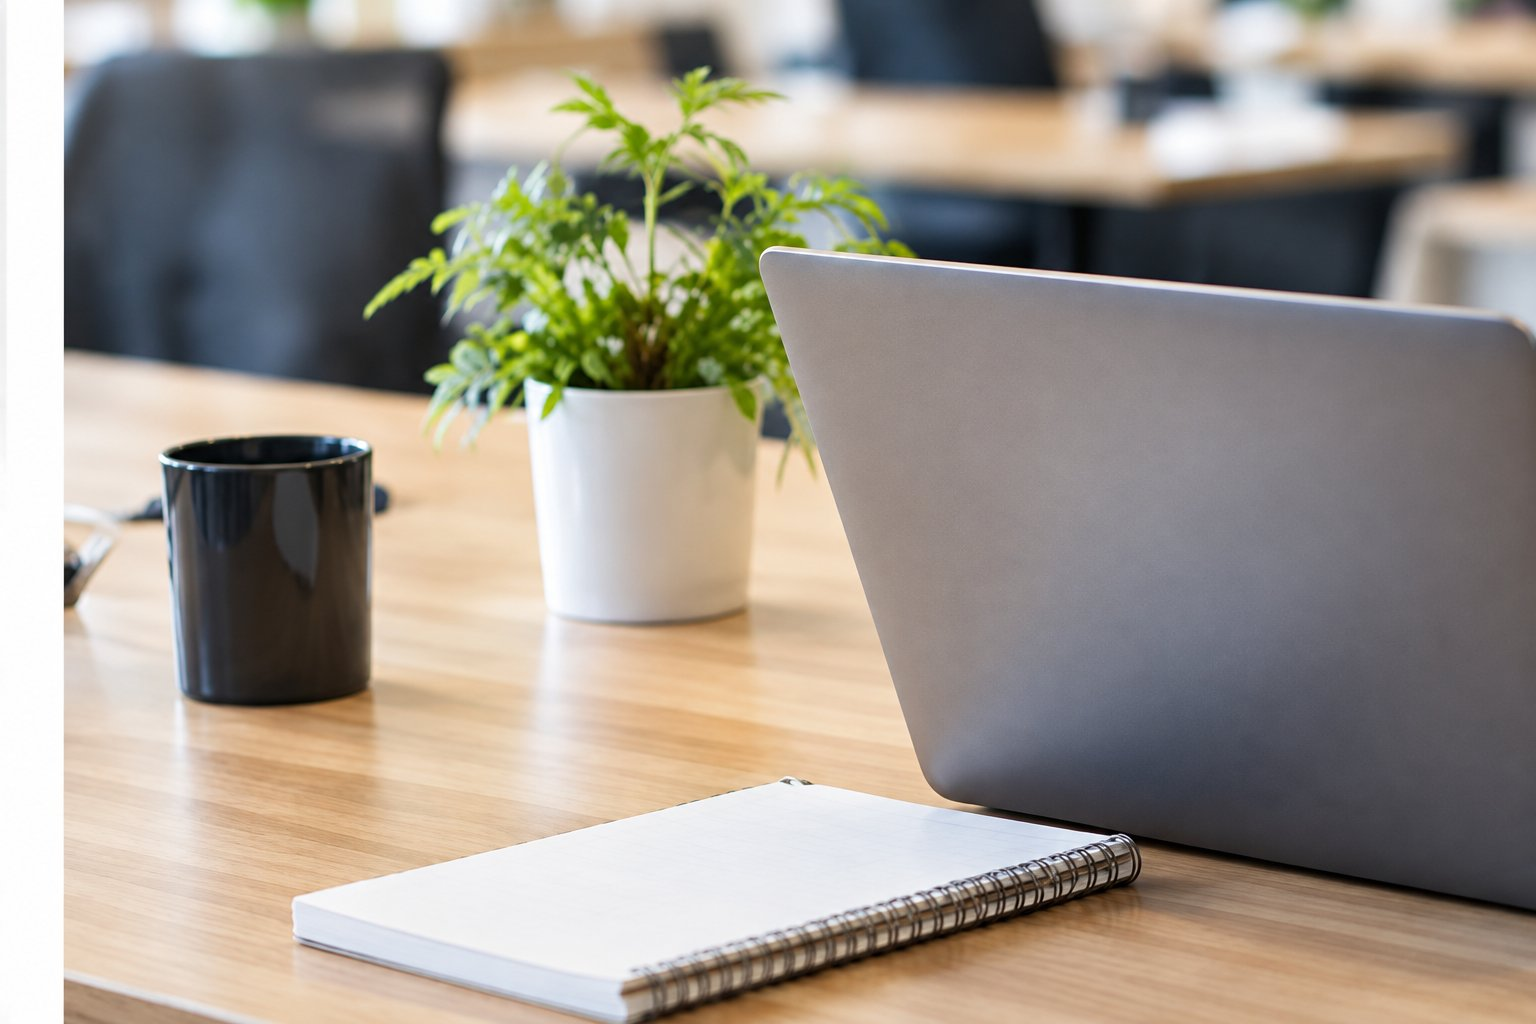
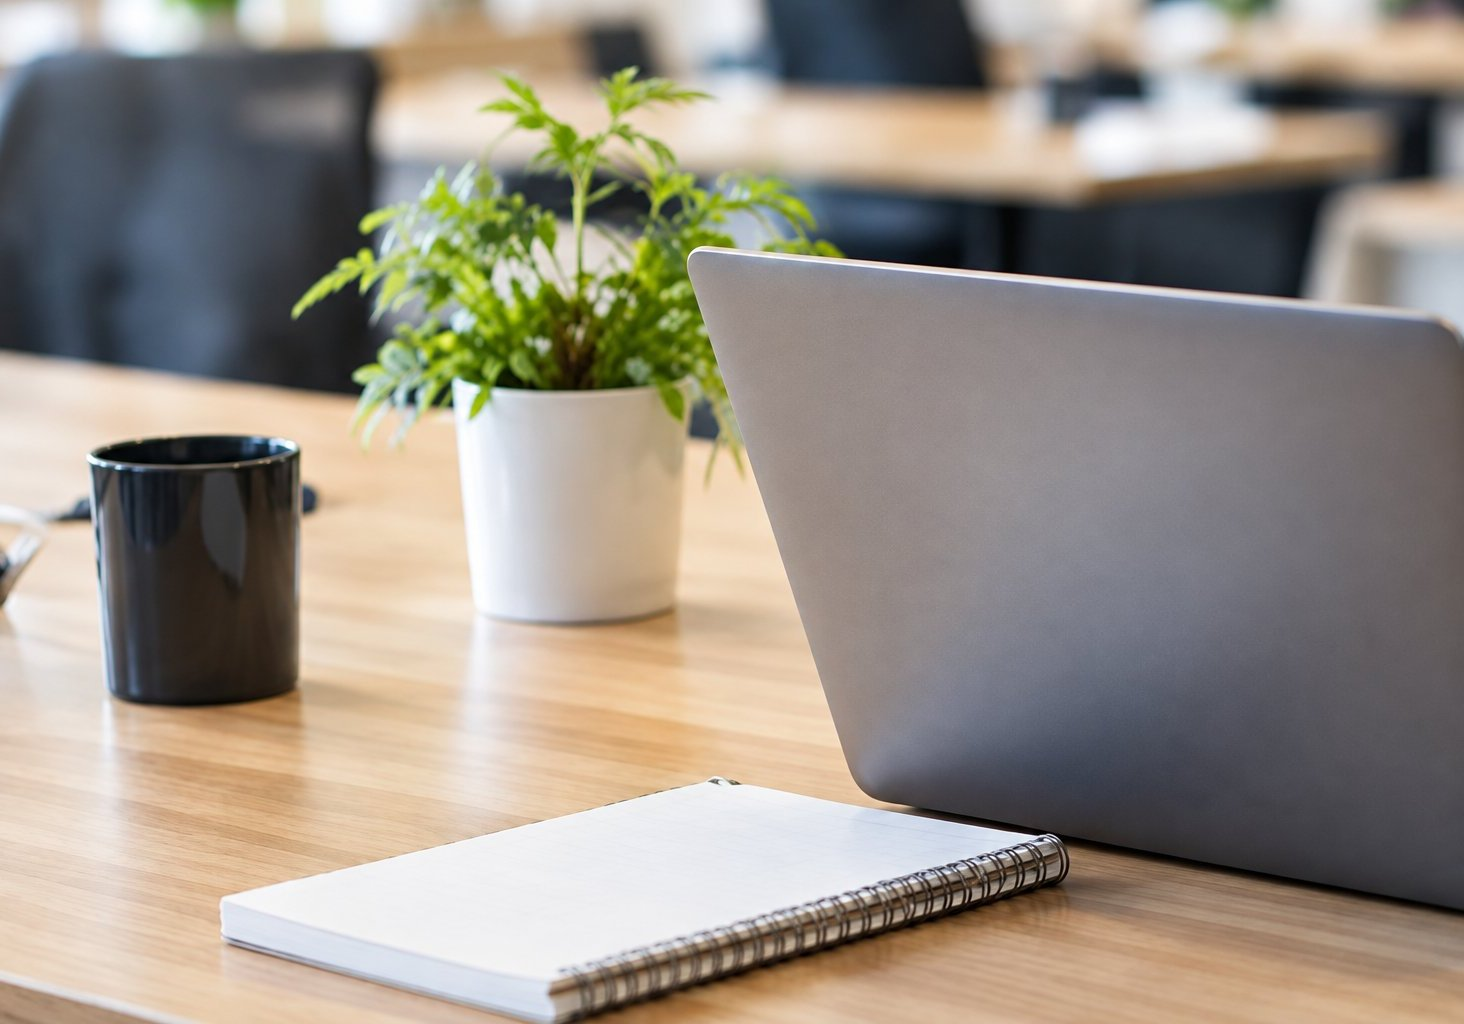
education/draft4: 開催日を「ご希望の日をお問い合わせフォームからご相談ください」に、2 つの表の「ご案内」行を削除、about.jpg の左端の白い帯を切り落とし(ユーザー判断 2026-09-17)

diff --git a/education/draft4/index.html b/education/draft4/index.html
@@ -677,13 +677,12 @@ img.emoji {
     </div>
     <dl class="sorajyuku-table">
       <div><dt>開催時間</dt><dd><strong>18:00〜</strong></dd></div>
-      <div><dt>開催日</dt><dd>開催カレンダー・予約ページにてご案内</dd></div>
+      <div><dt>開催日</dt><dd>ご希望の日をお問い合わせフォームからご相談ください</dd></div>
       <div><dt>利用料金</dt><dd><strong>完全無料</strong></dd></div>
       <div><dt>利用方法</dt><dd>事前予約制</dd></div>
       <div><dt>対象</dt><dd>学生・主婦／主夫・会社員・異業種・IT未経験者など、どなたでも参加可能</dd></div>
       <div><dt>内容</dt><dd>AI ／ PC・Excel ／ Web制作 ／ プログラミング ／ 資格学習 ／ 自由作業 など</dd></div>
       <div><dt>サポート</dt><dd>SKYMスタッフ・エンジニア</dd></div>
-      <div><dt>ご案内</dt><dd>本サイト ／ SNS ／ お問い合わせフォーム</dd></div>
     </dl>
   </div>
 </section>
@@ -702,7 +701,6 @@ img.emoji {
         <div><dt>講師</dt><dd>株式会社SKYM代表・SKYMスタッフほか</dd></div>
         <div><dt>会場</dt><dd>SKYMまたは社外会場</dd></div>
         <div><dt>テーマ</dt><dd>開催ごとに決定</dd></div>
-        <div><dt>ご案内</dt><dd>本サイト・SNS等でお知らせ</dd></div>
       </dl>
     </div>
     <figure class="sorajyuku-photo">

diff --git a/education/draft4/block.html b/education/draft4/block.html
@@ -509,13 +509,12 @@
     </div>
     <dl class="sorajyuku-table">
       <div><dt>開催時間</dt><dd><strong>18:00〜</strong></dd></div>
-      <div><dt>開催日</dt><dd>開催カレンダー・予約ページにてご案内</dd></div>
+      <div><dt>開催日</dt><dd>ご希望の日をお問い合わせフォームからご相談ください</dd></div>
       <div><dt>利用料金</dt><dd><strong>完全無料</strong></dd></div>
       <div><dt>利用方法</dt><dd>事前予約制</dd></div>
       <div><dt>対象</dt><dd>学生・主婦／主夫・会社員・異業種・IT未経験者など、どなたでも参加可能</dd></div>
       <div><dt>内容</dt><dd>AI ／ PC・Excel ／ Web制作 ／ プログラミング ／ 資格学習 ／ 自由作業 など</dd></div>
       <div><dt>サポート</dt><dd>SKYMスタッフ・エンジニア</dd></div>
-      <div><dt>ご案内</dt><dd>本サイト ／ SNS ／ お問い合わせフォーム</dd></div>
     </dl>
   </div>
 </section>
@@ -534,7 +533,6 @@
         <div><dt>講師</dt><dd>株式会社SKYM代表・SKYMスタッフほか</dd></div>
         <div><dt>会場</dt><dd>SKYMまたは社外会場</dd></div>
         <div><dt>テーマ</dt><dd>開催ごとに決定</dd></div>
-        <div><dt>ご案内</dt><dd>本サイト・SNS等でお知らせ</dd></div>
       </dl>
     </div>
     <figure class="sorajyuku-photo">
